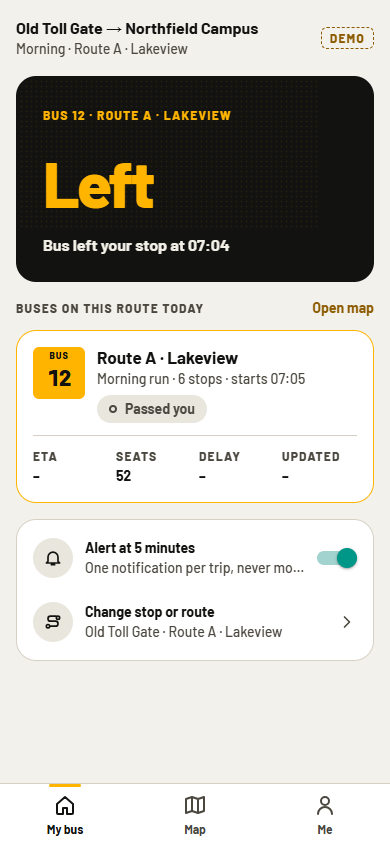
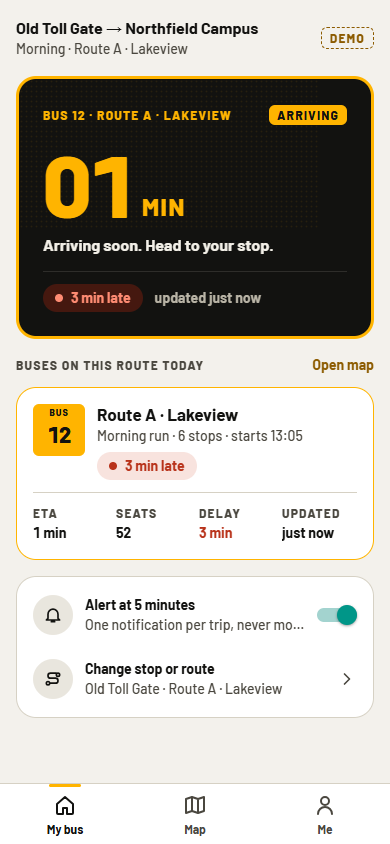
docs: refresh screenshots with a live simulated bus

diff --git a/README.md b/README.md
@@ -27,8 +27,8 @@ Any college can set itself up. Members join with an invite code, and colleges ar
 | --- | --- | --- |
 | ![Answer in dark mode](docs/07-answer-dark.png) | ![Fleet view](docs/08-admin-live.png) | ![Route editor](docs/10-route-editor.png) |
 
-Taken from the Expo web build with the clearly labelled **DEMO** college after a simulated trip, so the board shows the “bus left your stop” state.
-TODO: add screenshots with a bus on the way (`npm run simulate -- --route A --period morning --from 3`) and Android screenshots of the driver screen from a real phone.
+Taken from the Expo web build with the clearly labelled **DEMO** college while `npm run simulate` drove Bus 12 towards the student’s stop (the “Arriving” state, one minute out).
+TODO: add Android screenshots of the driver screen (Start trip, Sharing location) from a real phone.
 
 ## Features
 
